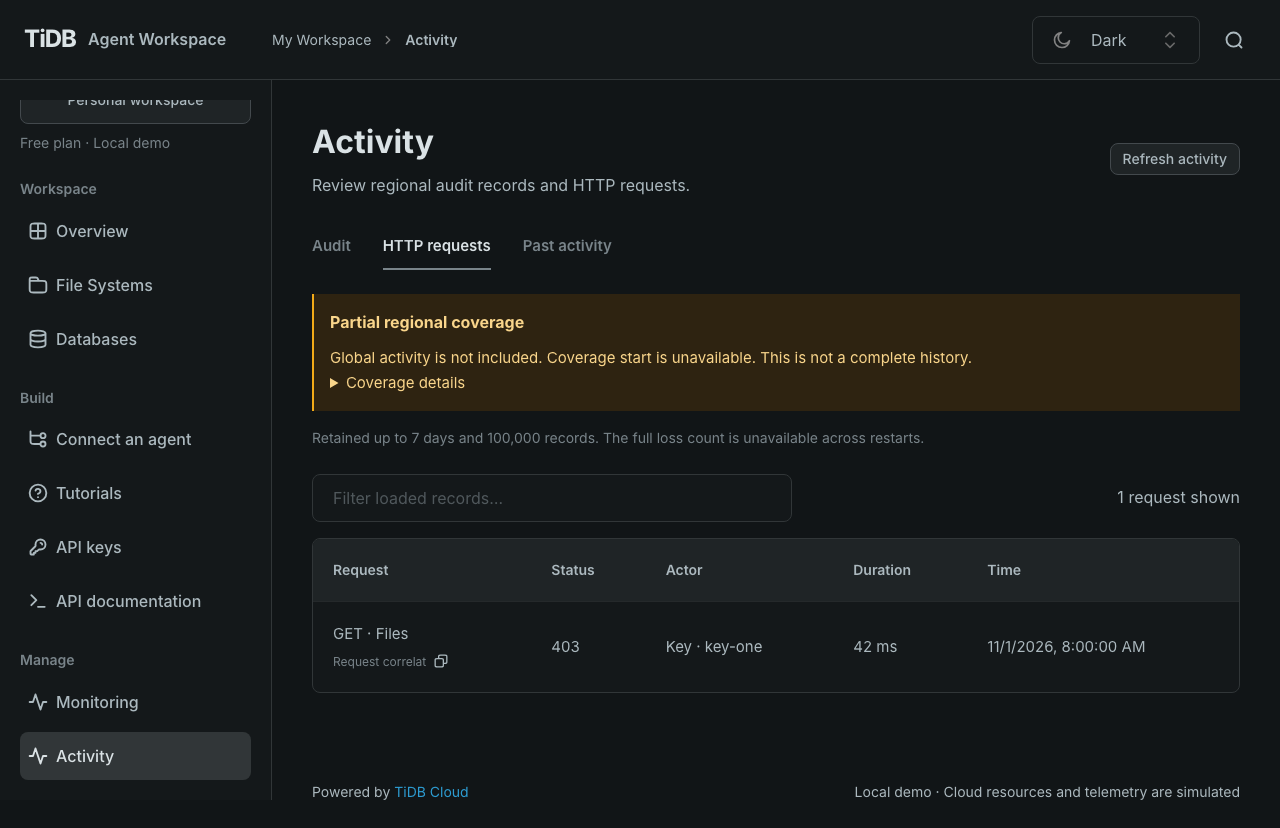
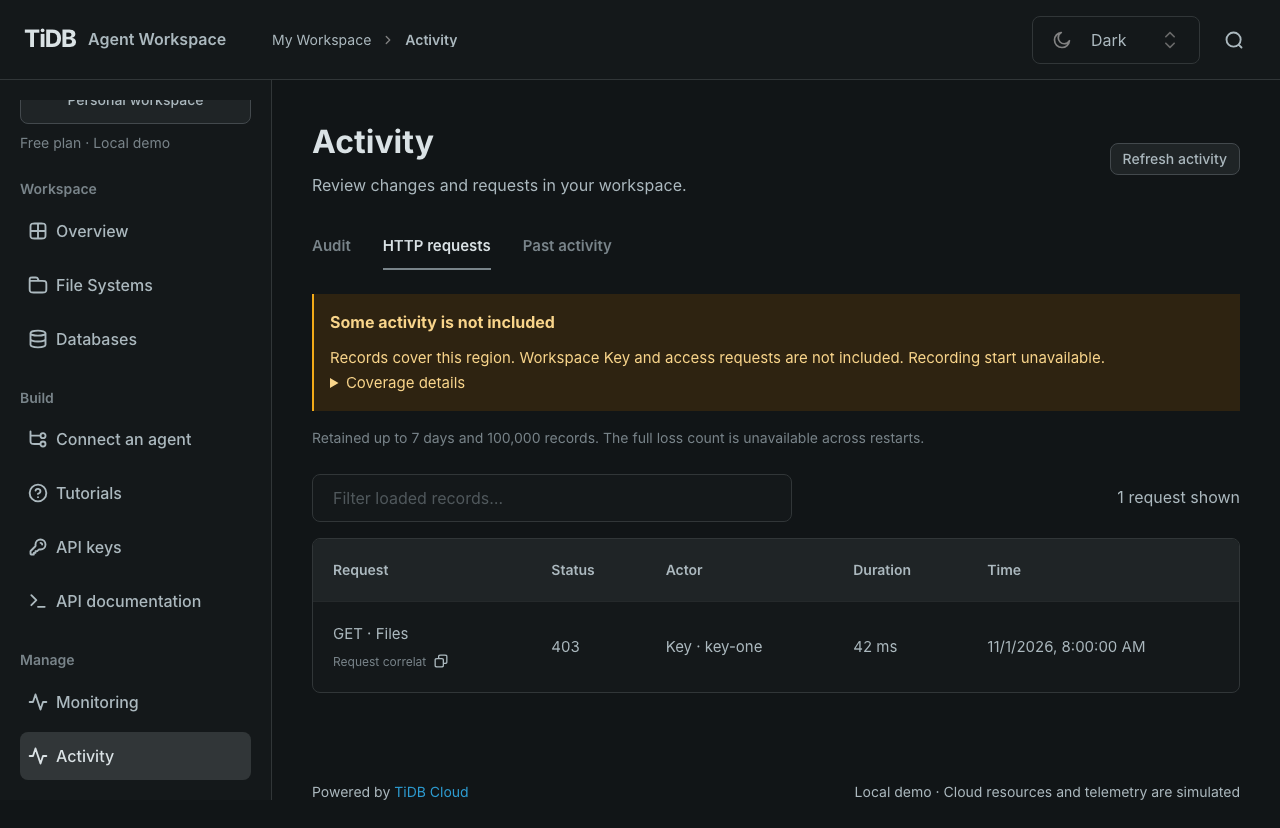
fix(activity): explain missing workspace key activity

Changed region(s): [[0.25, 0.3623, 0.875, 0.4529], [0.2812, 0.2114, 0.5312, 0.2415]]

diff --git a/src/features/activity/ActivityHistory.tsx b/src/features/activity/ActivityHistory.tsx
@@ -189,16 +189,22 @@ export function ActivityHistory({
       ),
     ) || [];
   const noun = kind === 'audit' ? 'audit records' : 'requests';
+  const firstExclusion = page?.coverage.exclusions[0];
+  const coverageSummary =
+    firstExclusion === 'Global Key activity is not included'
+      ? 'Workspace Key changes are not included'
+      : firstExclusion === 'Global requests are not included'
+        ? 'Workspace Key and access requests are not included'
+        : firstExclusion;
   return (
     <section aria-label={kind === 'audit' ? 'Audit history' : 'HTTP request history'}>
       {page && (
         <>
-          <Alert color="yellow" title="Partial regional coverage" mb="md">
-            {page.coverage.exclusions[0] && <>{page.coverage.exclusions[0]}. </>}
+          <Alert color="yellow" title="Some activity is not included" mb="md">
+            Records cover this region. {coverageSummary && <>{coverageSummary}. </>}
             {page.coverage.startedAt
-              ? `Coverage starts ${time(page.coverage.startedAt)}.`
-              : 'Coverage start is unavailable.'}{' '}
-            This is not a complete history.
+              ? `Recording started ${time(page.coverage.startedAt)}.`
+              : 'Recording start unavailable.'}
             {page.coverage.exclusions.length > 1 && (
               <details>
                 <summary>Coverage details</summary>

diff --git a/src/App.tsx b/src/App.tsx
@@ -1950,7 +1950,7 @@ function ActivityPage({
     <div className="activity-page">
       <PageHeading
         title="Activity"
-        description="Review regional audit records and HTTP requests."
+        description="Review changes and requests in your workspace."
         actions={
           <Button size="sm" loading={refreshing} onClick={() => void refreshActivity()}>
             Refresh activity
